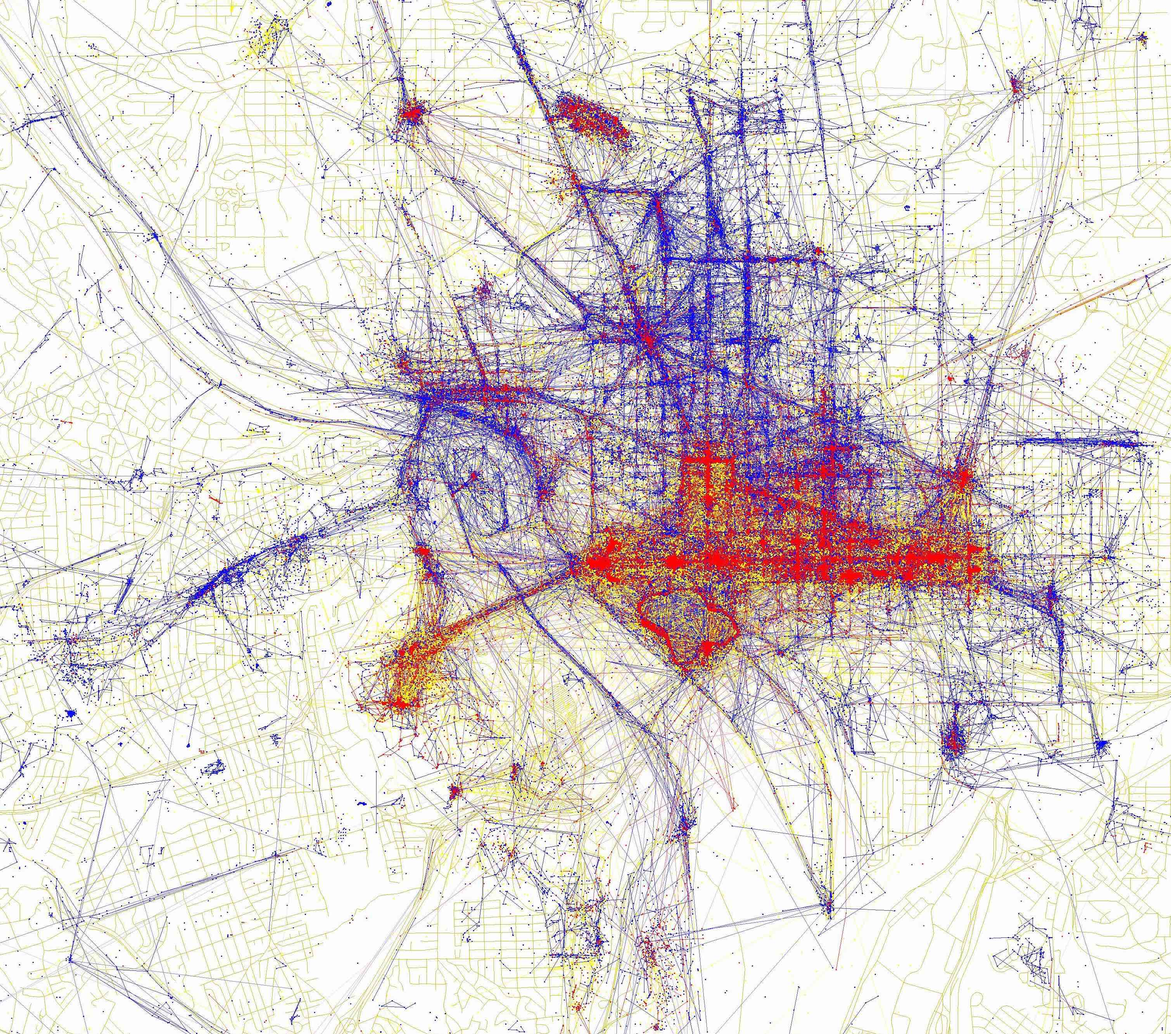
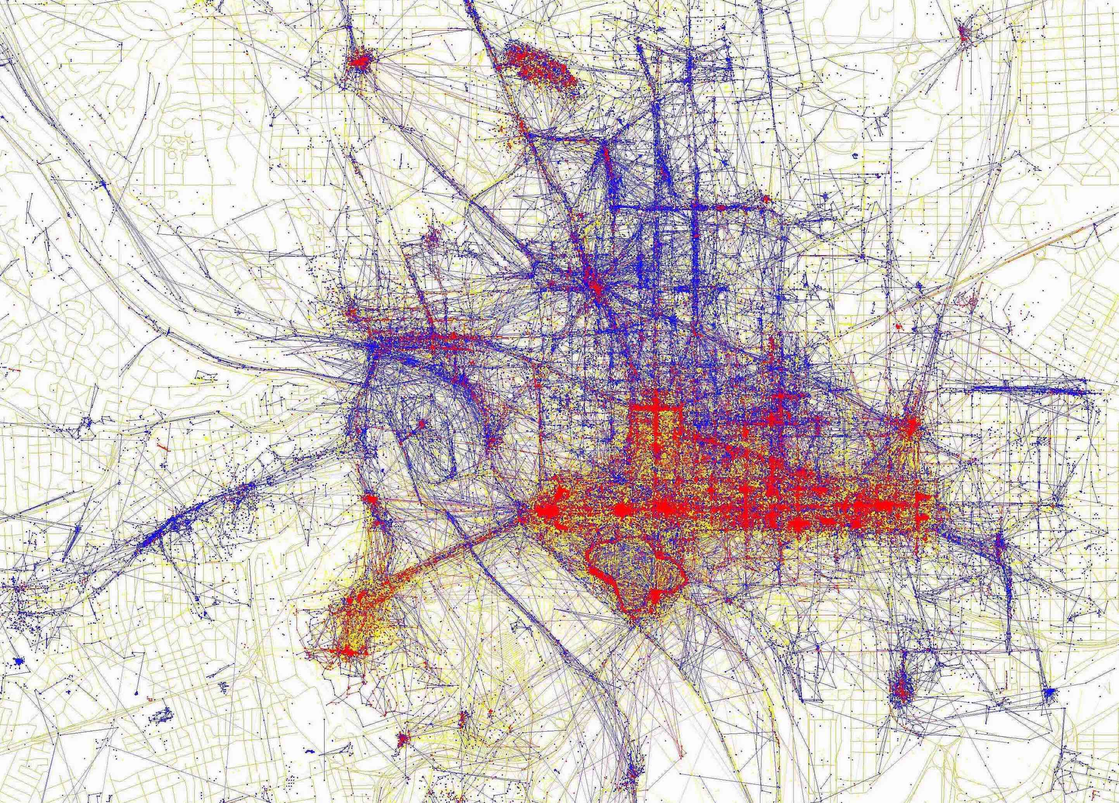
11-slides

diff --git a/content/slides/11-slides.html b/content/slides/11-slides.html
@@ -294,7 +294,7 @@ https://www.census.gov/dataviz/visualizations/051/
 .center[
 &lt;figure&gt;
   &lt;img src="img/11/nyt-ukraine-refugees.png" alt="Refugees from Ukraine" title="Refugees from Ukraine" width="70%"&gt;
-  &lt;figcaption&gt;&lt;a href="https://www.nytimes.com/interactive/2022/03/15/opinion/ukraine-refugee-crisis.html" target="_blank"&gt;The New York Times, "Refugees from Ukraine, since Feb. 24"&lt;/a&gt;&lt;/figcaption&gt;
+  &lt;figcaption&gt;&lt;a href="https://www.nytimes.com/interactive/2022/03/15/opinion/ukraine-refugee-crisis.html" target="_blank"&gt;The New York Times, "Refugees from Ukraine, Feb. 24 - Mar. 13, 2022"&lt;/a&gt;&lt;/figcaption&gt;
 &lt;/figure&gt;
 ]
 
@@ -308,7 +308,7 @@ https://www.nytimes.com/interactive/2022/03/15/opinion/ukraine-refugee-crisis.ht
 
 .center[
 &lt;figure&gt;
-  &lt;img src="img/11/dc-photo-locations-small.jpg" alt="DC photo locations by locals and tourists" title="DC photo locations by locals and tourists" width="52%"&gt;
+  &lt;img src="img/11/dc-photo-locations-small.jpg" alt="DC photo locations by locals and tourists" title="DC photo locations by locals and tourists" width="65%"&gt;
   &lt;figcaption&gt;&lt;a href="https://www.flickr.com/photos/walkingsf/4672195208/in/album-72157624209158632/" target="_blank"&gt;Photos taken in DC: blue = locals; red = tourists; yellow = unknown&lt;/a&gt;&lt;/figcaption&gt;
 &lt;/figure&gt;
 ]
@@ -379,43 +379,17 @@ To make it easy to combine *attributes* with *spatial geometries*, `sf` stores f
 
 ---
 
-# Structure of an `sf` data frame
+# Importing `sf` data frames
 
-.small-code[
 
 ```r
-library(sf)
+library(sf) # load sf package
 world_shapes &lt;- read_sf("data/ne_110m_admin_0_countries/ne_110m_admin_0_countries.shp")
-world_shapes |&gt; select(TYPE, GEOUNIT, ISO_A3, geometry)
 ```
 
+--
 
-```
-## Simple feature collection with 176 features and 3 fields
-## Geometry type: MULTIPOLYGON
-## Dimension:     XY
-## Bounding box:  xmin: -180 ymin: -56 xmax: 180 ymax: 84
-## Geodetic CRS:  WGS 84
-## # A tibble: 176 × 4
-##    TYPE              GEOUNIT                  ISO_A3                              geometry
-##    &lt;chr&gt;             &lt;chr&gt;                    &lt;chr&gt;                     &lt;MULTIPOLYGON [°]&gt;
-##  1 Sovereign country Fiji                     FJI    (((180 -16, 180 -17, 179 -17, 179 -1…
-##  2 Sovereign country Tanzania                 TZA    (((34 -0.95, 34 -1.1, 38 -3.1, 38 -3…
-##  3 Indeterminate     Western Sahara           ESH    (((-8.7 28, -8.7 28, -8.7 27, -8.7 2…
-##  4 Sovereign country Canada                   CAN    (((-123 49, -123 49, -125 50, -126 5…
-##  5 Country           United States of America USA    (((-123 49, -120 49, -117 49, -116 4…
-##  6 Sovereign country Kazakhstan               KAZ    (((87 49, 87 49, 86 48, 86 47, 85 47…
-##  7 Sovereign country Uzbekistan               UZB    (((56 41, 56 45, 59 46, 59 46, 60 45…
-##  8 Sovereign country Papua New Guinea         PNG    (((141 -2.6, 143 -3.3, 145 -3.9, 145…
-##  9 Sovereign country Indonesia                IDN    (((141 -2.6, 141 -5.9, 141 -9.1, 140…
-## 10 Sovereign country Argentina                ARG    (((-69 -53, -68 -53, -68 -54, -66 -5…
-## # … with 166 more rows
-```
-]
-
----
-
-# `sf` data frames are data frames
+**`sf` data frames are data frames:**
 
 
 ```r
@@ -426,22 +400,31 @@ class(world_shapes)
 ## [1] "sf"         "tbl_df"     "tbl"        "data.frame"
 ```
 
+---
+
+# Inspecting `sf` data frames
+
+
 ```r
 world_shapes |&gt; 
-  filter(NAME == "United States of America") |&gt; 
-  select(NAME, TYPE, ISO_A3, geometry)
+  select(TYPE, GEOUNIT, ISO_A3, geometry) |&gt; 
+  head(5)
 ```
 
 ```
-## Simple feature collection with 1 feature and 3 fields
+## Simple feature collection with 5 features and 3 fields
 ## Geometry type: MULTIPOLYGON
 ## Dimension:     XY
-## Bounding box:  xmin: -170 ymin: 19 xmax: -67 ymax: 71
+## Bounding box:  xmin: -180 ymin: -18 xmax: 180 ymax: 83
 ## Geodetic CRS:  WGS 84
-## # A tibble: 1 × 4
-##   NAME                     TYPE    ISO_A3                                         geometry
-##   &lt;chr&gt;                    &lt;chr&gt;   &lt;chr&gt;                                &lt;MULTIPOLYGON [°]&gt;
-## 1 United States of America Country USA    (((-123 49, -120 49, -117 49, -116 49, -113 49,…
+## # A tibble: 5 × 4
+##   TYPE              GEOUNIT                  ISO_A3                               geometry
+##   &lt;chr&gt;             &lt;chr&gt;                    &lt;chr&gt;                      &lt;MULTIPOLYGON [°]&gt;
+## 1 Sovereign country Fiji                     FJI    (((180 -16, 180 -17, 179 -17, 179 -17…
+## 2 Sovereign country Tanzania                 TZA    (((34 -0.95, 34 -1.1, 38 -3.1, 38 -3.…
+## 3 Indeterminate     Western Sahara           ESH    (((-8.7 28, -8.7 28, -8.7 27, -8.7 26…
+## 4 Sovereign country Canada                   CAN    (((-123 49, -123 49, -125 50, -126 50…
+## 5 Country           United States of America USA    (((-123 49, -120 49, -117 49, -116 49…
 ```
 
 ---
@@ -554,7 +537,10 @@ counties |&gt;
   geom_sf()
 ```
 
+What will this code produce?
 ]
+
+--
 
 .right-plot[
 ![](11-slides_files/figure-html/filter-map-data-1.png)
@@ -562,23 +548,84 @@ counties |&gt;
 
 ---
 
+# We can mutate like normal
+
+All regular data frame operations work on `sf` data frames
+
+What will this code produce?
+
+
+```r
+counties |&gt;
+* mutate(is_albany = (county=="albany")) |&gt;
+  head(5)
+```
+
+--
+
+
+```
+## Simple feature collection with 5 features and 2 fields
+## Geometry type: MULTIPOLYGON
+## Dimension:     XY
+## Bounding box:  xmin: -79 ymin: 41 xmax: -74 ymax: 43
+## Geodetic CRS:  WGS 84
+##           county                           geom is_albany
+## 1793      albany MULTIPOLYGON (((-74 42, -74...      TRUE
+## 1794    allegany MULTIPOLYGON (((-78 42, -78...     FALSE
+## 1795       bronx MULTIPOLYGON (((-74 41, -74...     FALSE
+## 1796      broome MULTIPOLYGON (((-75 42, -76...     FALSE
+## 1797 cattaraugus MULTIPOLYGON (((-79 42, -79...     FALSE
+```
+
+
+---
+
 # We can use aesthetics like normal
 
-All regular ggplot layers and aesthetics work
+All regular ggplot aesthetics work
 
 .left-code[
 
 ```r
 counties |&gt;
-* ggplot(aes(fill = (county=="tompkins"))) +
-  geom_sf() +
-  guides(fill = "none") + # omit legend
-  scale_fill_viridis_d()  # nicer colors
+  mutate(is_tompkins = (county=="tompkins")) |&gt; 
+* ggplot(aes(fill = is_tompkins)) +
+  geom_sf()
 ```
+What will this code produce?
 ]
+
+--
 
 .right-plot[
 ![](11-slides_files/figure-html/add-aes-1.png)
+]
+
+---
+
+# We can add layers like normal
+
+All regular ggplot layers work
+
+.left-code[
+
+```r
+counties |&gt;
+  mutate(is_tompkins = (county=="tompkins")) |&gt; 
+  ggplot(aes(fill = is_tompkins)) +
+  geom_sf() +
+* guides(fill = "none") +  # omit legend
+* scale_fill_viridis_d() + # nicer colors
+* theme_minimal()          # cleaner theme
+```
+What will this code produce?
+]
+
+--
+
+.right-plot[
+![](11-slides_files/figure-html/add-layers-1.png)
 ]
 
 ---
@@ -666,7 +713,7 @@ Make your own with `st_as_sf()`
 
 .less-left.small-code[
 
-
+ 
 
 ```r
 other_data
@@ -705,14 +752,60 @@ other_data |&gt;
 ```
 ]
 
-&lt;!-- --- --&gt;
+---
 
-&lt;!-- # No `geometry` column? --&gt;
-.pull-left[
+# Compute the distance from Cornell to Cancun
 
+Compute distances using `st_distance()`
+
+
+```r
+other_sf &lt;- other_data |&gt; 
+  st_as_sf(coords = c("long", "lat"), 
+           crs = st_crs("EPSG:4326"))
+
+other_sf |&gt; 
+* st_distance()
+```
+
+```
+## Units: [m]
+##         [,1]    [,2]
+## [1,]       0 2556310
+## [2,] 2556310       0
+```
+
+The distance from Cornell to Cancun is 2556 kilometers, or 1588 miles.
+
+
+
+---
+
+# Map the trip form Cornell to Cancun
+
+.left-code[
+
+```r
+world_shapes |&gt; 
+  ggplot() +
+  geom_sf() +
+  geom_sf(data = other_sf, 
+          color = "#B31B1B") +
+  coord_sf(crs = "+proj=robin")
+```
+What will this code produce?
+]
+
+--
+
+.right-plot[
+![](11-slides_files/figure-html/cornell-cancun-map-1.png)
 ]
 
 
+???
+
+Or make great circle plots: https://www.findingyourway.io/blog/2018/02/28/2018-02-28_great-circles-with-sf-and-leaflet/
 
 ---
 
